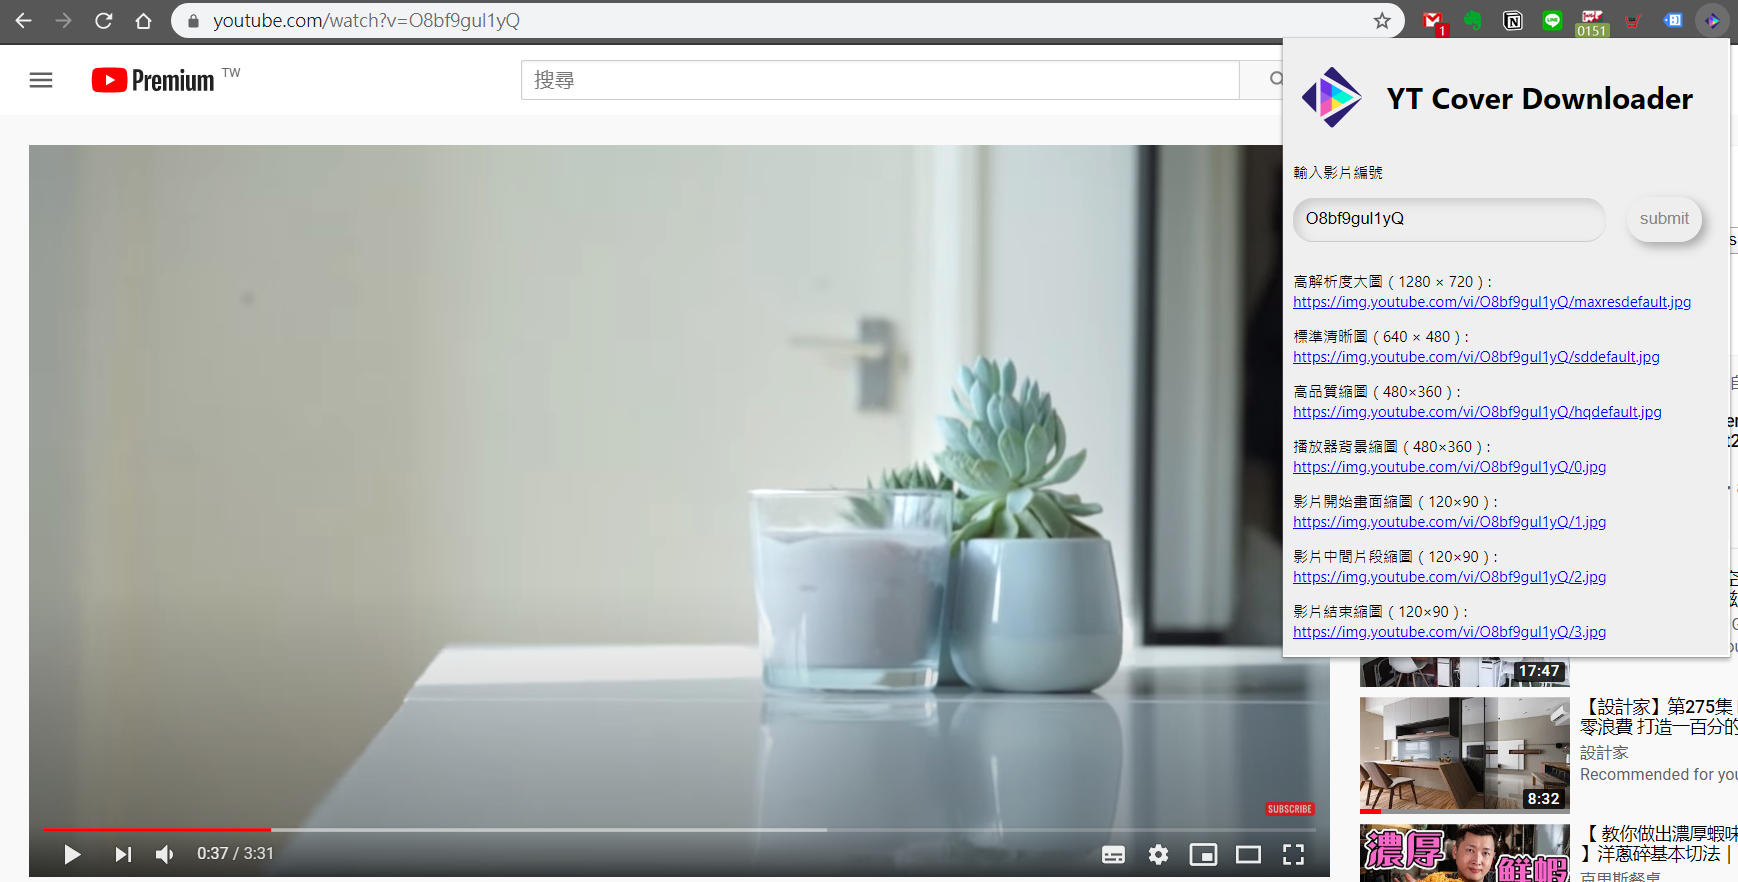
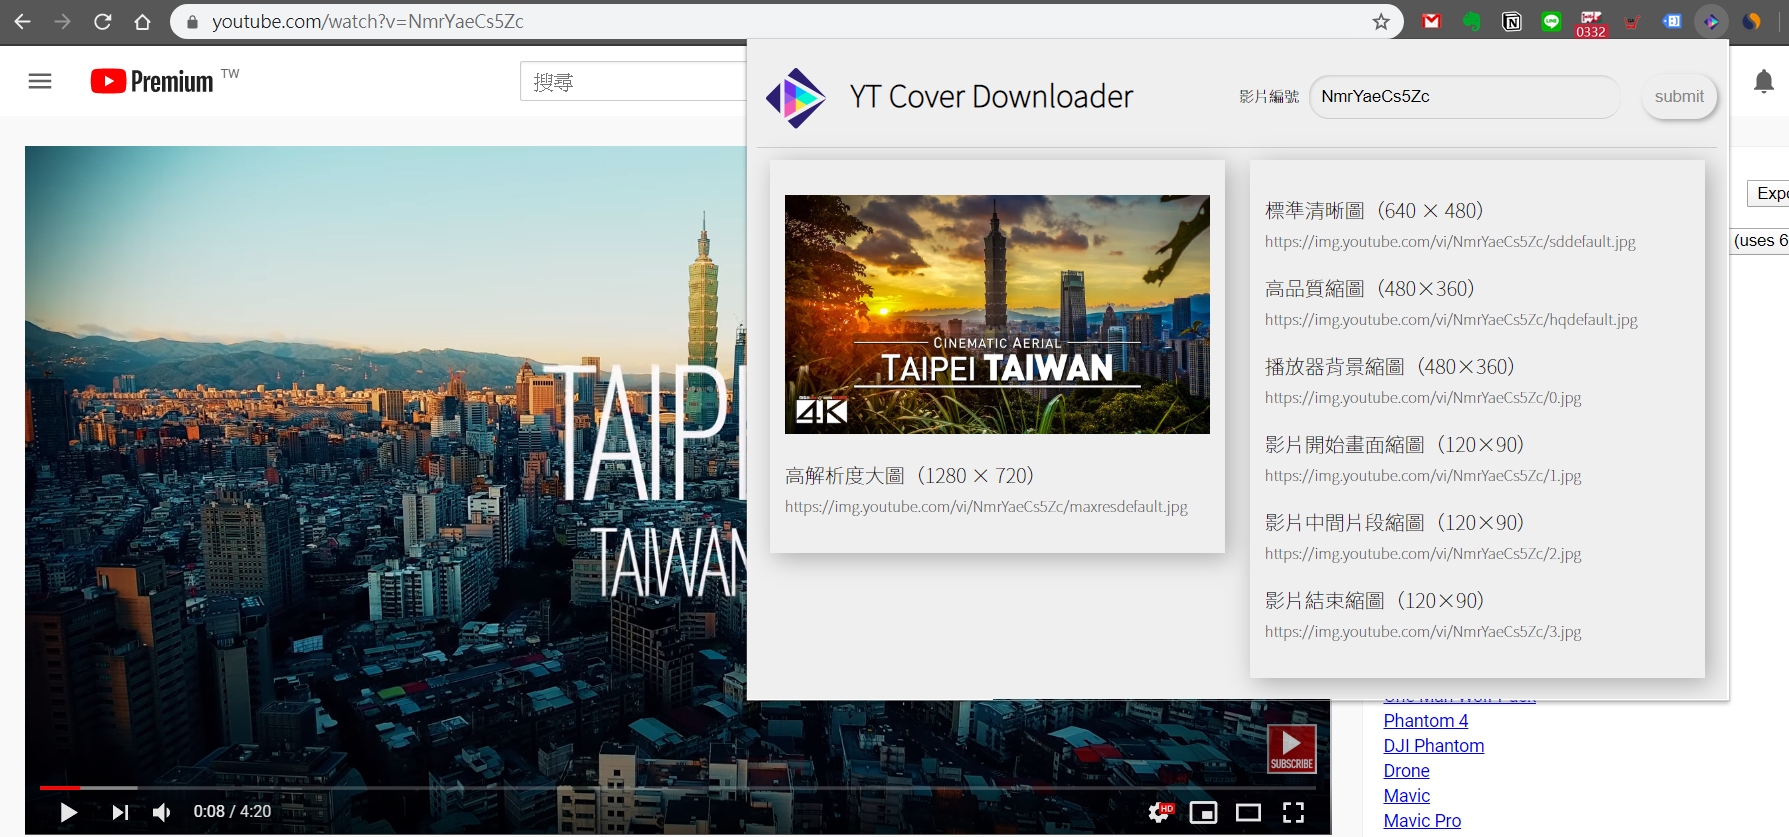
update README.md

diff --git a/README.md b/README.md
@@ -8,7 +8,8 @@
 原本是手動找出YouTube的封面圖片下載連結，但因程序麻煩，因此做成擴充功能方便快速擷取。
 
 ## 開發說明
-- 2020/04/13 1.0 版開發完成
+- 2020/04/13 (v1.0.0) 基本功能開發完成
+- 2020/04/14 (v1.0.1) UI優化
 
 ## 使用說明
 目前並不打算上架到chrome線上應用程式商店，請使用「開發人員模式」載入使用。
@@ -21,19 +22,18 @@ step2 載入專案
 - 2.1 開啟 chrome，輸入URL: chrome://extensions
 - 2.2 點選左上角「載入未封裝項目」
 - 2.3 選擇 YTCoverDownloader 資料夾
-- 2.4 瀏覽器右上角會顯示圖示 (目前為反灰)
+- 2.4 瀏覽器右上角會顯示擴充功能icon (目前為反灰)
 
 step3 抓取圖片
 - 3.1 前往YouTube，點選任意影片
-- 3.2 點擊擴充功能icon，會自動帶出目前影片的 cover image links
+- 3.2 點擊擴充功能icon，會自動帶出影片的封面圖片links
 ![click icon](/images/readme1.png)
-- 3.3 點擊link即可取得目前影片的 cover image
-![show cover image](/images/readme2.png)
-- 3.4 點擊右鍵即可下載
+- 3.3 在 link 上點右鍵 -> 複製連結網址，即可取得目前影片封面圖片網址
+
 
 ## 後續維護
 如果有任何建議，都歡迎隨時與我聯絡 :)
 
 
 
->Logo通過[DesignEvo](https://www.designevo.com/tw/logo-maker/)設計製作
+>本專案 Logo 使用 [DesignEvo](https://www.designevo.com/tw/logo-maker/) 設計製作
